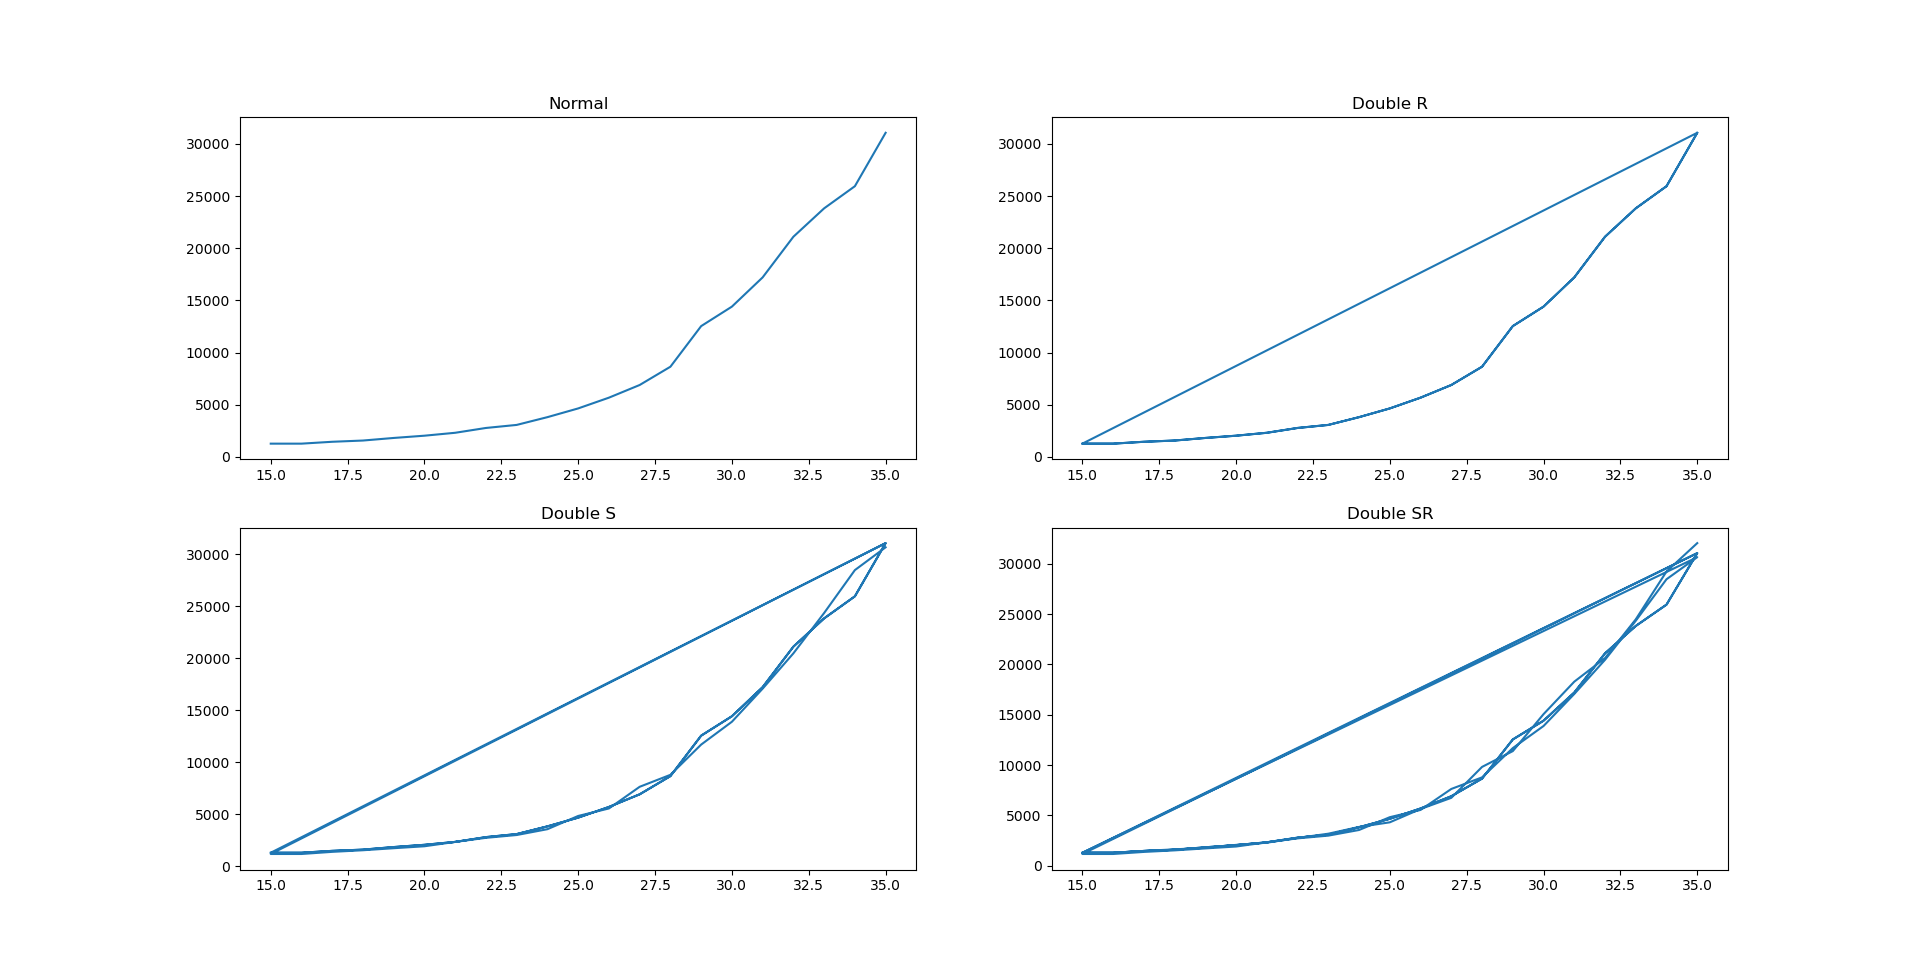
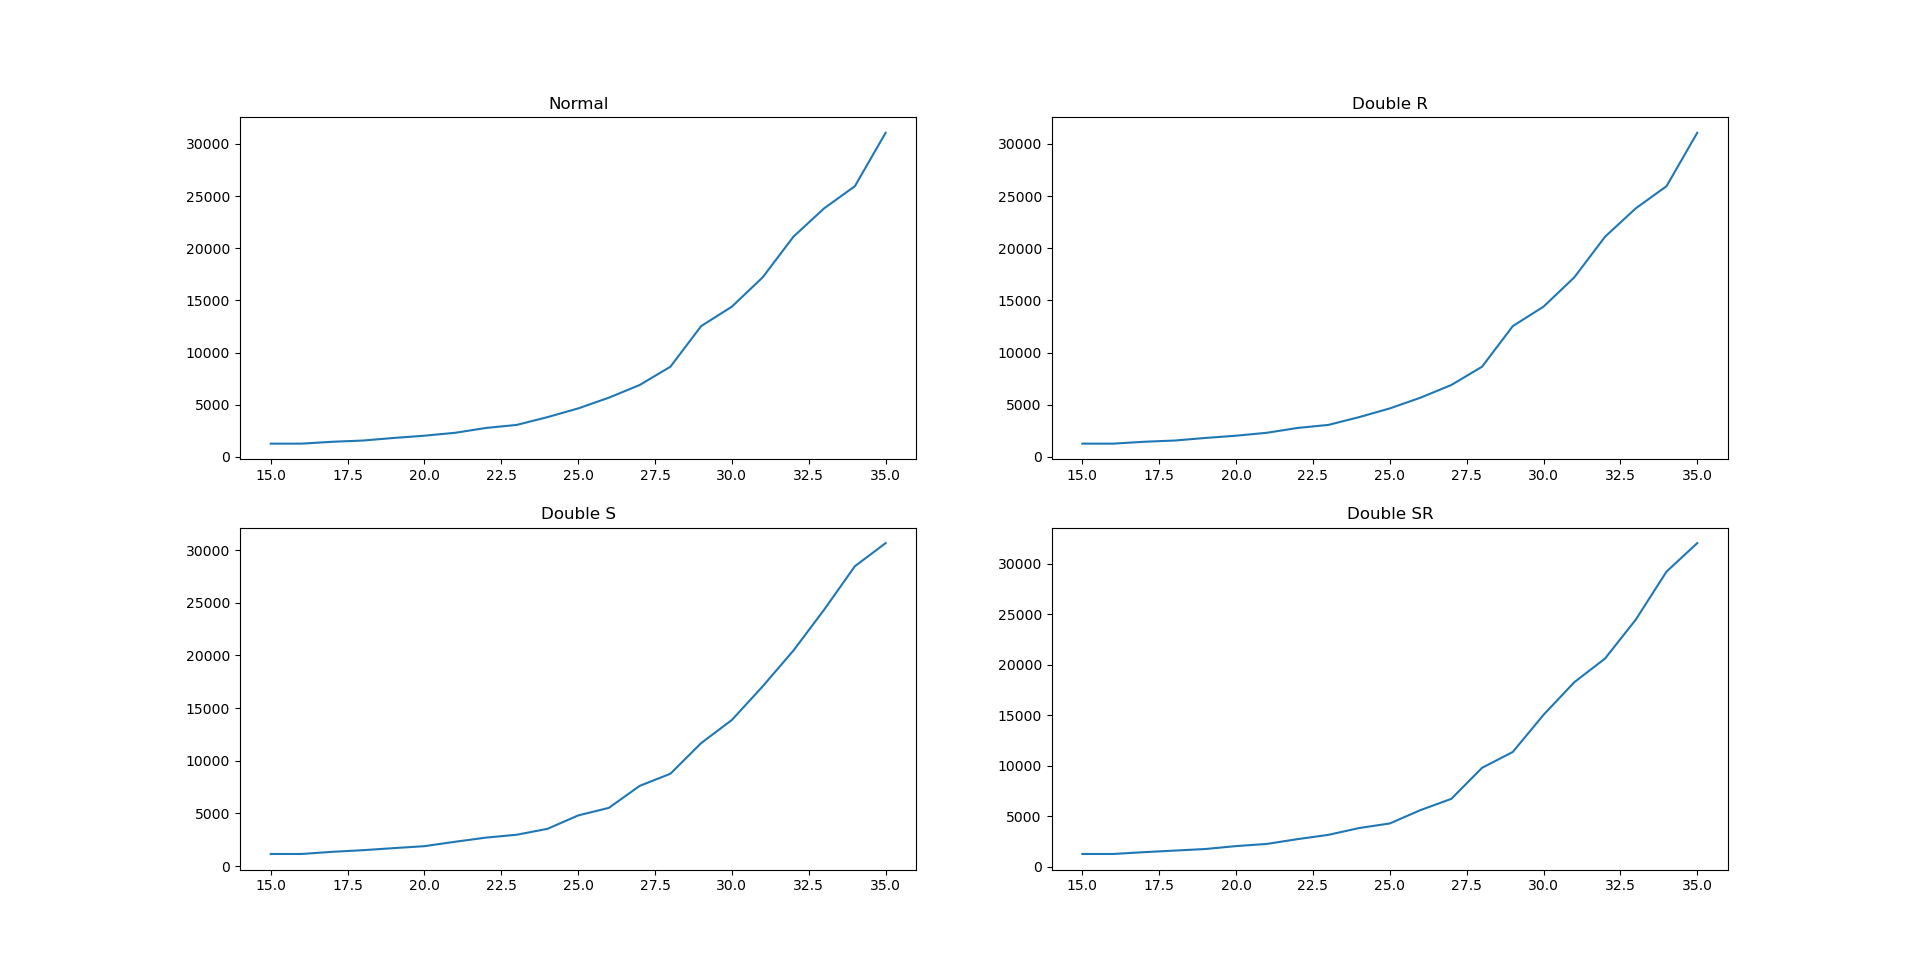
je suis con xd

diff --git a/partie3.py b/partie3.py
@@ -32,6 +32,7 @@ def simu(time, nb, tache):
 
     if tache == "tache1":
         v.tabS.append(v.sojourn_time)
+    print(v.tabS)
 
 """
 \ Code
@@ -47,7 +48,7 @@ if tache == "tache1":
     minA = 15
     maxA = 36
 
-    n.set_A(15) 
+    n.set_A(15)
     n.reset_network()
     for a in range(minA, maxA):
         print(f"A={a}")
@@ -56,10 +57,17 @@ if tache == "tache1":
         n.reset_network()
         v.tabA.append(a)
 
+    """
+    En sortie ->
+    """
+    tabSim1 = v.tabS
+
     # First simulation
     axis[0, 0].plot(v.tabA, v.tabS)
     axis[0, 0].set_title("Normal")
 
+    v.tabA = []
+    v.tabS = []
     n.set_A(15)
     n.set_R(n.R*2)
     n.reset_network()
@@ -70,10 +78,17 @@ if tache == "tache1":
         n.reset_network()
         v.tabA.append(a)
 
+    """
+    En sortie ->
+    """
+    tabSim2 = v.tabS
+
     # Second simulation
     axis[0, 1].plot(v.tabA, v.tabS)
     axis[0, 1].set_title("Double R")
 
+    v.tabA = []
+    v.tabS = []
     n.reset_R()
     n.set_A(15)
     n.set_S(n.S*2)
@@ -85,10 +100,17 @@ if tache == "tache1":
         n.reset_network()
         v.tabA.append(a)
 
+    """
+    En sortie ->
+    """
+    tabSim3 = v.tabS
+
     # Third simulation
     axis[1, 0].plot(v.tabA, v.tabS)
     axis[1, 0].set_title("Double S")
 
+    v.tabA = []
+    v.tabS = []
     n.reset_S()
     n.set_A(15)
     n.set_SR(n.SR*2)
@@ -99,6 +121,11 @@ if tache == "tache1":
         n.set_A(a)
         n.reset_network()
         v.tabA.append(a)
+
+    """
+    En sortie ->
+    """
+    tabSim4 = v.tabS
 
     # Fourth simulation
     axis[1, 1].plot(v.tabA, v.tabS)

diff --git a/values.py b/values.py
@@ -8,3 +8,6 @@ class Values:
         self.tabA = []
         self.tabS = []
         self.sojourn_time = 0
+
+    def reset_sojourn(self):
+        self.tabS = []
